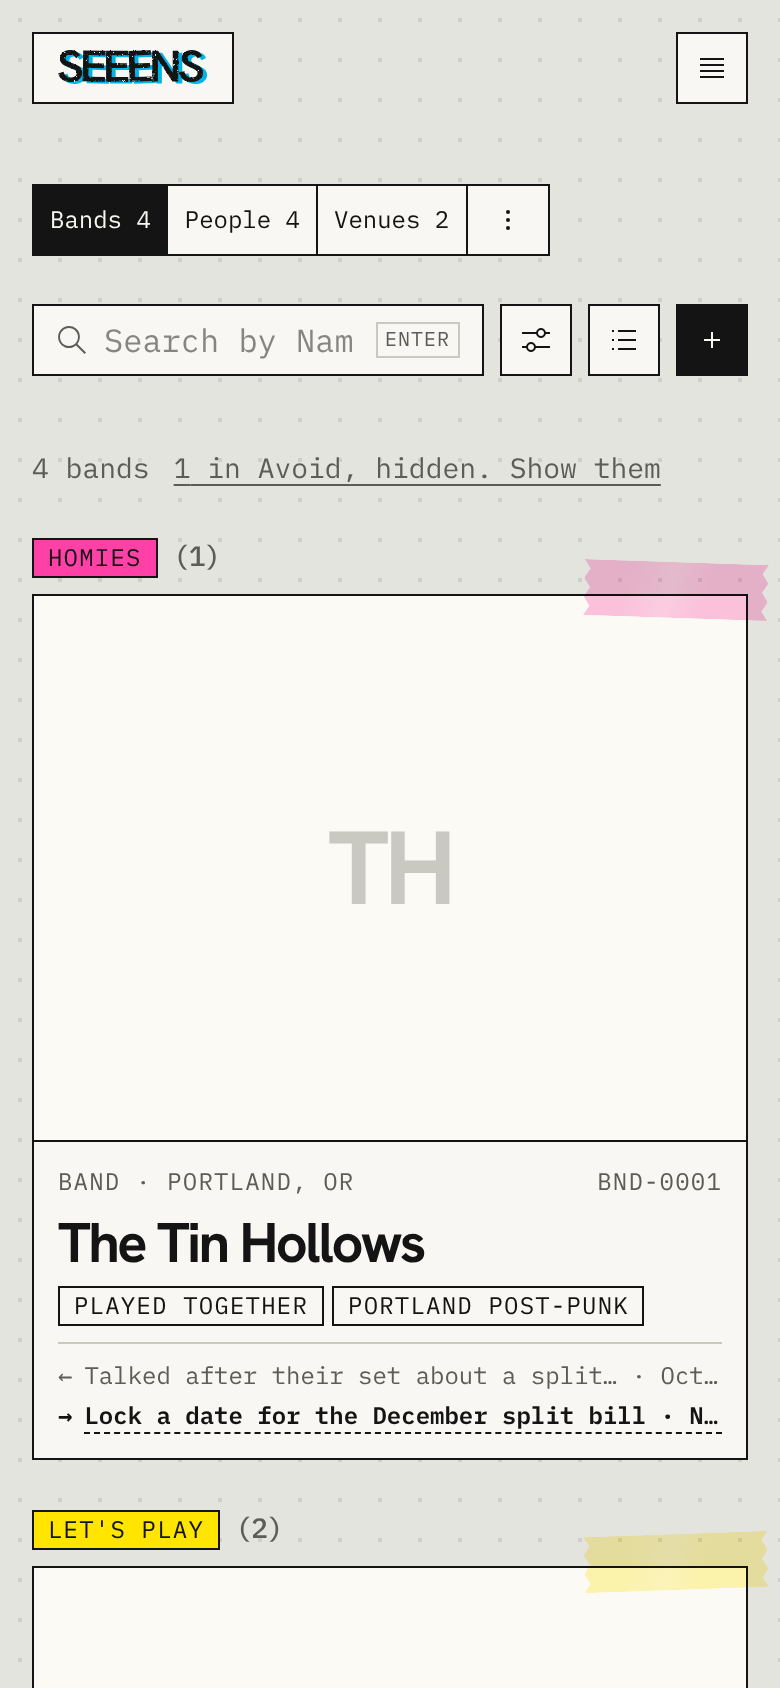
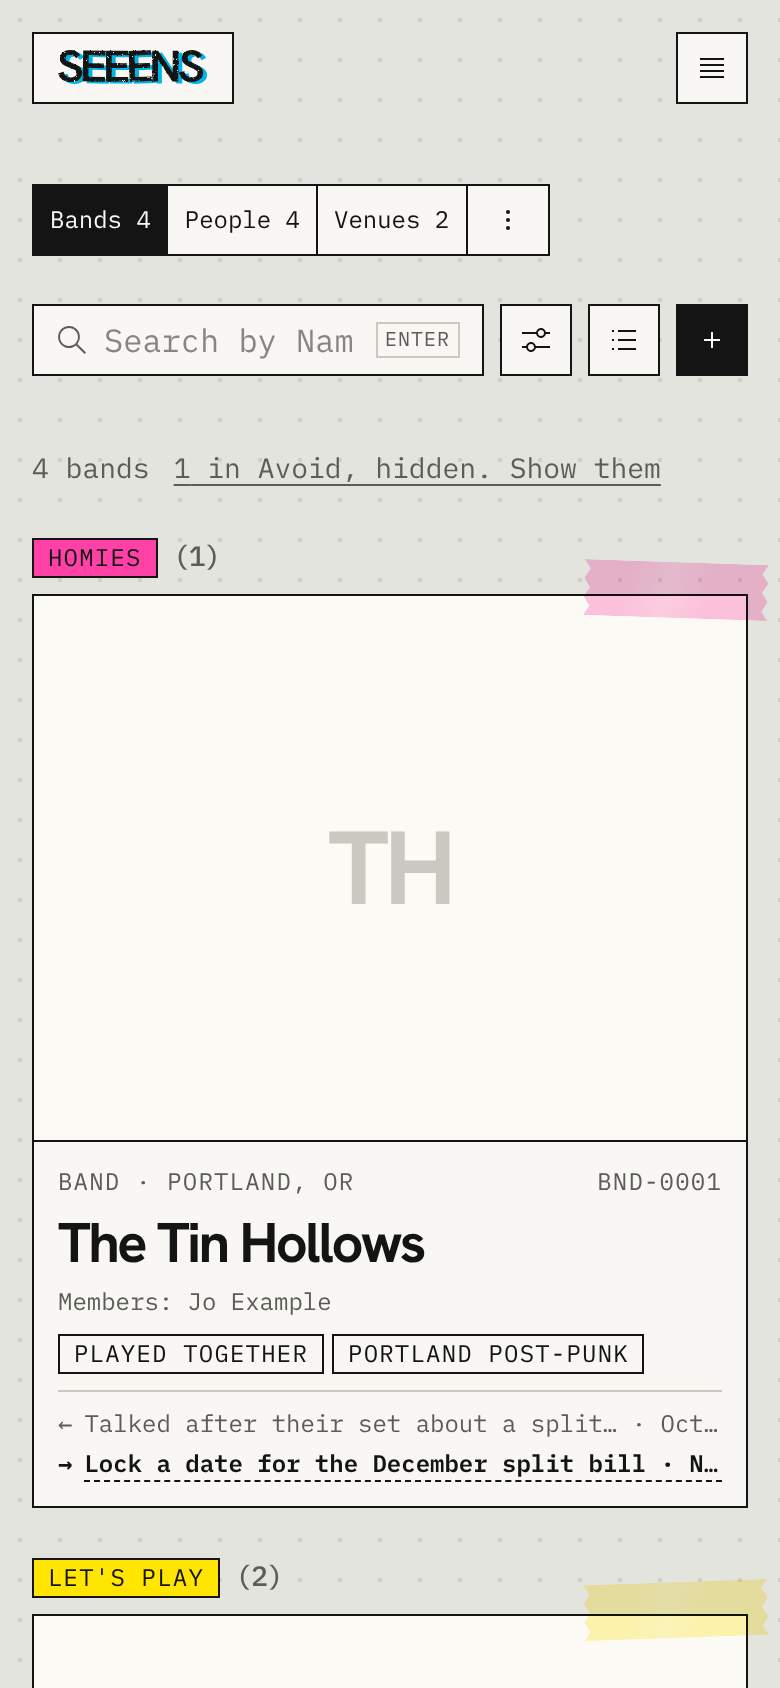
Directory by type: a detail line per tab, wider scene and town (#122) (#136)
Rows and cards add one line under the name: a band's current members, the
bands a person plays in now, or the first line of a label's notes. Scenes join
the row tags (cards had them already), except on All. From 1280 the scene and
town fields share the bar's spare width. Tab helpers move to tabs.ts so the
results, a client component, can use them.

Claude-Session: https://claude.ai/code/session_01SMP6NnyPkRALtU7G1T7uNS

Changed region(s): [[0.0308, 0.7701, 0.9846, 0.9858]]

diff --git a/src/lib/connections/directory.ts b/src/lib/connections/directory.ts
@@ -5,6 +5,9 @@ import { listSceneOptions, sceneAndChildren } from "@/lib/scenes/queries";
 import { signPhotos } from "@/lib/photos/urls";
 import { readFilters, type DirectoryFilters } from "./filters";
 import type { ConnectionKind, ConnectionStatus, GroupType, PersonRole } from "./labels";
+import { readTab, type Tab } from "./tabs";
+
+export { DEFAULT_TAB, TABS, detailFor, directoryHrefFor, readTab, tabFor, type Tab } from "./tabs";
 
 // The directory, one page at a time (#109). The directory_page RPC filters,
 // orders, counts, and works out the network tags in the database; this file
@@ -13,47 +16,6 @@ import type { ConnectionKind, ConnectionStatus, GroupType, PersonRole } from "./
 export const PAGE_SIZE = 48;
 
 type Params = Record<string, string | string[] | undefined>;
-
-// The directory by type (#122): one tab per kind of connection, Bands first.
-// "Labels & more" is every group that isn't a band or a venue.
-export type Tab = "bands" | "people" | "venues" | "more" | "all";
-export const TABS: { id: Tab; label: string; one: string; many: string; add: string; addType: string | null }[] = [
-  { id: "bands", label: "Bands", one: "band", many: "bands", add: "Add Band", addType: "band" },
-  { id: "people", label: "People", one: "person", many: "people", add: "Add Person", addType: "person" },
-  { id: "venues", label: "Venues", one: "venue", many: "venues", add: "Add Venue", addType: "venue" },
-  { id: "more", label: "Labels & more", one: "connection", many: "connections", add: "Add Label", addType: "label" },
-  { id: "all", label: "All", one: "connection", many: "connections", add: "Add Connection", addType: null },
-];
-export const DEFAULT_TAB: Tab = "bands";
-
-/** The tab a connection is listed under. */
-export function tabFor(kind: ConnectionKind, groupType: GroupType | null): Tab {
-  if (kind === "person") return "people";
-  if (groupType === "band") return "bands";
-  if (groupType === "venue") return "venues";
-  return "more";
-}
-
-/** Back to the directory, on a connection's own tab (and the archived half if it's archived). */
-export function directoryHrefFor(kind: ConnectionKind, groupType: GroupType | null, archived: boolean) {
-  const p = new URLSearchParams();
-  const tab = tabFor(kind, groupType);
-  if (tab !== DEFAULT_TAB) p.set("type", tab);
-  if (archived) p.set("archived", "1");
-  const qs = p.toString();
-  return qs ? `/?${qs}` : "/";
-}
-
-export function readTab(v: string | string[] | undefined): Tab {
-  const raw = (Array.isArray(v) ? v[0] : v) ?? "";
-  if (TABS.some((t) => t.id === raw)) return raw as Tab;
-  // The old Type filter (?type=group:band, person:dj) lands on its tab.
-  if (raw.startsWith("person:")) return "people";
-  if (raw === "group:band") return "bands";
-  if (raw === "group:venue") return "venues";
-  if (raw.startsWith("group:")) return "more";
-  return DEFAULT_TAB;
-}
 
 // Where the next page starts: the last row's sort key.
 export type Cursor = { rank: number; name: string; id: string };
@@ -92,7 +54,14 @@ export type DirectoryItem = {
   /** "Label mate", "Shares a member" */
   tags: string[];
   scenes: string[];
+  /** A band's current members, by name (#122). */
+  members: string[];
+  /** The bands a person plays in now, by name (#122). */
+  plays_in: string[];
+  /** The first line of the notes, for Labels & more (#122). */
+  note: string | null;
 };
+
 
 export type GroupCounts = Record<ConnectionStatus, number>;
 export type TabCounts = Record<Tab, number>;
@@ -161,7 +130,7 @@ export async function loadDirectoryPage(
     ? await supabase
         .from("connections")
         .select(
-          "id, name, kind, person_roles, group_type, status, played_together, is_us, catalog_no, photo_path, photo_alt, localities ( name, region, region_code, country, country_code ), connection_scenes ( scene_id ), outreach_entries ( occurred_on, summary ), next_actions ( description, due_on )",
+          "id, name, kind, person_roles, group_type, status, played_together, is_us, catalog_no, photo_path, photo_alt, notes, localities ( name, region, region_code, country, country_code ), connection_scenes ( scene_id ), outreach_entries ( occurred_on, summary ), next_actions ( description, due_on ), incoming:affiliations!affiliations_workspace_id_to_connection_id_fkey ( kind, is_current, other:connections!affiliations_workspace_id_from_connection_id_fkey ( name, archived_at ) ), outgoing:affiliations!affiliations_workspace_id_from_connection_id_fkey ( kind, is_current, other:connections!affiliations_workspace_id_to_connection_id_fkey ( name, archived_at ) )",
         )
         .eq("workspace_id", ws)
         .in("id", ids)
@@ -179,7 +148,13 @@ export async function loadDirectoryPage(
   const items: DirectoryItem[] = page.rows.flatMap((r) => {
     const d = byId.get(r.id);
     if (!d) return []; // deleted between the two reads
-    const { connection_scenes, photo_path, ...rest } = d;
+    const { connection_scenes, photo_path, notes, incoming, outgoing, ...rest } = d;
+    // Current, unarchived members only, in name order.
+    const names = (links: { kind: string; is_current: boolean; other: { name: string; archived_at: string | null } | null }[]) =>
+      links
+        .filter((a) => a.kind === "member" && a.is_current && a.other && !a.other.archived_at)
+        .map((a) => a.other!.name)
+        .sort((x, y) => x.localeCompare(y));
     return [
       {
         ...rest,
@@ -188,6 +163,9 @@ export async function loadDirectoryPage(
           (t): t is string => Boolean(t),
         ),
         scenes: connection_scenes.map((cs) => sceneNames.get(cs.scene_id)).filter((n): n is string => Boolean(n)),
+        members: names(incoming),
+        plays_in: names(outgoing),
+        note: notes?.split("\n").find((line) => line.trim())?.trim() ?? null,
       },
     ];
   });

diff --git a/src/components/directory-results.tsx b/src/components/directory-results.tsx
@@ -7,6 +7,7 @@ import { DateLines } from "@/components/date-line";
 import { useLayout } from "@/components/layout-toggle";
 import { loadMoreConnections } from "@/lib/connections/directory-actions";
 import type { Cursor, DirectoryItem, GroupCounts } from "@/lib/connections/directory";
+import { detailFor, type Tab } from "@/lib/connections/tabs";
 import { STATUSES, STATUS_LABELS, formatLocality, formatType } from "@/lib/connections/labels";
 import { catalogNo, initials } from "@/lib/connections/card";
 
@@ -24,6 +25,7 @@ export function DirectoryResults({
   matched,
   query,
   today,
+  tab,
 }: {
   initialItems: DirectoryItem[];
   initialNext: Cursor | null;
@@ -32,6 +34,8 @@ export function DirectoryResults({
   /** The directory URL's query string, without layout or after. */
   query: string;
   today: string;
+  /** Which tab: decides the detail line and whether scenes show. */
+  tab: Tab;
 }) {
   const { layout } = useLayout();
   const [items, setItems] = useState(initialItems);
@@ -99,9 +103,9 @@ export function DirectoryResults({
             <span className={`tag ${s.tag}`}>{s.label}</span> <span className="text-muted">({s.count})</span>
           </h2>
           {layout === "list" ? (
-            <ConnectionRows connections={s.rows} today={today} />
+            <ConnectionRows connections={s.rows} today={today} tab={tab} />
           ) : (
-            <ConnectionCards connections={s.rows} today={today} />
+            <ConnectionCards connections={s.rows} today={today} tab={tab} />
           )}
         </section>
       ))}
@@ -124,11 +128,21 @@ export function DirectoryResults({
   );
 }
 
-function ConnectionRows({ connections, today }: { connections: DirectoryItem[]; today: string }) {
+// Tags: played together, the network tags, then scenes (not on All, which
+// keeps to type, town, and latest).
+function tagsFor(c: DirectoryItem, tab: Tab) {
+  return [...new Set([c.played_together ? "Played together" : null, ...c.tags, ...(tab === "all" ? [] : c.scenes)])].filter(
+    (t): t is string => Boolean(t),
+  );
+}
+
+function ConnectionRows({ connections, today, tab }: { connections: DirectoryItem[]; today: string; tab: Tab }) {
   return (
     <ul className="panel rows flex flex-col">
       {connections.map((c) => {
         const place = formatLocality(c.localities);
+        const tags = tagsFor(c, tab);
+        const detail = detailFor(c, tab);
         return (
           <li key={c.id}>
             <Link
@@ -155,16 +169,16 @@ function ConnectionRows({ connections, today }: { connections: DirectoryItem[]; 
                     {formatType(c)} · <span className="whitespace-nowrap">{catalogNo(c)}</span>
                   </span>
                 </span>
+                {detail ? <span className="detail-line">{detail}</span> : null}
                 <DateLines lastOutreach={c.outreach_entries[0]} nextAction={c.next_actions[0]} today={today} />
               </span>
               </span>
               {/* Phones: town on the left, tags on the right (Figma Directory Row, Mobile). */}
               <span className="flex flex-wrap items-center justify-between gap-2 sm:justify-end">
                 {place ? <span className="text-sm text-muted">{place}</span> : null}
-                {c.played_together || c.tags.length ? (
-                  <span className="flex flex-wrap gap-2 max-sm:ml-auto">
-                    {c.played_together ? <span className="tag">Played together</span> : null}
-                    {c.tags.map((t) => (
+                {tags.length ? (
+                  <span className="flex flex-wrap gap-1 max-sm:ml-auto sm:justify-end">
+                    {tags.map((t) => (
                       <span key={t} className="tag">
                         {t}
                       </span>
@@ -180,18 +194,17 @@ function ConnectionRows({ connections, today }: { connections: DirectoryItem[]; 
   );
 }
 
-function ConnectionCards({ connections, today }: { connections: DirectoryItem[]; today: string }) {
+function ConnectionCards({ connections, today, tab }: { connections: DirectoryItem[]; today: string; tab: Tab }) {
   return (
     <ul className="card-grid">
       {connections.map((c) => {
-        const tags = [
-          ...new Set([c.played_together ? "Played together" : null, ...c.tags, ...c.scenes]),
-        ].filter((t): t is string => Boolean(t));
+        const tags = tagsFor(c, tab);
         return (
           <li key={c.id} className="flex">
             <ConnectionCard
               connection={c}
               today={today}
+              detail={detailFor(c, tab)}
               tags={tags.map((t) => (
                 <span key={t} className="tag">
                   {t}

diff --git a/src/lib/connections/tabs.ts b/src/lib/connections/tabs.ts
@@ -1,0 +1,53 @@
+import type { ConnectionKind, GroupType } from "./labels";
+
+// Tabs and per-tab details for the directory (#122). No server imports, so
+// the results (a client component) can use them too.
+
+// The directory by type (#122): one tab per kind of connection, Bands first.
+// "Labels & more" is every group that isn't a band or a venue.
+export type Tab = "bands" | "people" | "venues" | "more" | "all";
+export const TABS: { id: Tab; label: string; one: string; many: string; add: string; addType: string | null }[] = [
+  { id: "bands", label: "Bands", one: "band", many: "bands", add: "Add Band", addType: "band" },
+  { id: "people", label: "People", one: "person", many: "people", add: "Add Person", addType: "person" },
+  { id: "venues", label: "Venues", one: "venue", many: "venues", add: "Add Venue", addType: "venue" },
+  { id: "more", label: "Labels & more", one: "connection", many: "connections", add: "Add Label", addType: "label" },
+  { id: "all", label: "All", one: "connection", many: "connections", add: "Add Connection", addType: null },
+];
+export const DEFAULT_TAB: Tab = "bands";
+
+/** The tab a connection is listed under. */
+export function tabFor(kind: ConnectionKind, groupType: GroupType | null): Tab {
+  if (kind === "person") return "people";
+  if (groupType === "band") return "bands";
+  if (groupType === "venue") return "venues";
+  return "more";
+}
+
+/** Back to the directory, on a connection's own tab (and the archived half if it's archived). */
+export function directoryHrefFor(kind: ConnectionKind, groupType: GroupType | null, archived: boolean) {
+  const p = new URLSearchParams();
+  const tab = tabFor(kind, groupType);
+  if (tab !== DEFAULT_TAB) p.set("type", tab);
+  if (archived) p.set("archived", "1");
+  const qs = p.toString();
+  return qs ? `/?${qs}` : "/";
+}
+
+export function readTab(v: string | string[] | undefined): Tab {
+  const raw = (Array.isArray(v) ? v[0] : v) ?? "";
+  if (TABS.some((t) => t.id === raw)) return raw as Tab;
+  // The old Type filter (?type=group:band, person:dj) lands on its tab.
+  if (raw.startsWith("person:")) return "people";
+  if (raw === "group:band") return "bands";
+  if (raw === "group:venue") return "venues";
+  if (raw.startsWith("group:")) return "more";
+  return DEFAULT_TAB;
+}
+
+/** The extra line a row or card shows on each tab (#122): who's in a band, which bands a person plays in, a label's note. Venue capacity and ages wait for #48. */
+export function detailFor(item: { members: string[]; plays_in: string[]; note: string | null }, tab: Tab): string | null {
+  if (tab === "bands") return item.members.length ? `Members: ${item.members.join(", ")}` : null;
+  if (tab === "people") return item.plays_in.length ? `Plays in ${item.plays_in.join(", ")}` : null;
+  if (tab === "more") return item.note;
+  return null;
+}

diff --git a/src/app/globals.css b/src/app/globals.css
@@ -666,7 +666,7 @@
     .directory-bar .bar-panel,
     .directory-bar .bar-panel-closed {
       display: block;
-      grid-area: 2 / 2;
+      grid-area: 2 / 2 / 3 / 4;
     }
     .directory-bar .bar-after {
       grid-area: 2 / 4;
@@ -682,8 +682,20 @@
   .bar-panel-closed {
     display: none;
   }
+  /* A row or card's detail line (#122): members, bands, a note. Mono/Small,
+     secondary, two lines at most. */
+  .detail-line {
+    font-family: var(--type-mono);
+    font-size: 12px;
+    line-height: 16px;
+    color: var(--color-text-secondary);
+    display: -webkit-box;
+    -webkit-box-orient: vertical;
+    -webkit-line-clamp: 2;
+    overflow: hidden;
+  }
   /* The filter fields: one to a row on phones (Figma), four from tablet, and in the
-     search row from 1280 (status 220px, scene and town 160px). */
+     search row from 1280 (status 220px; scene and town split the rest). */
   .filter-fields {
     display: grid;
     gap: 12px;
@@ -699,8 +711,10 @@
       & > .filter-status {
         width: 13.75rem;
       }
+      /* Scene and town share what's left of the row, 160px at least. */
       & > :not(.filter-status, .choice, .sr-only) {
-        width: 10rem;
+        flex: 1 1 10rem;
+        min-width: 10rem;
       }
     }
   }

diff --git a/src/components/connection-card.tsx b/src/components/connection-card.tsx
@@ -51,10 +51,13 @@ export function ConnectionCard({
   connection: c,
   tags,
   today,
+  detail,
 }: {
   connection: CardConnection;
   tags: ReactNode[];
   today: string;
+  /** One more line under the name: members, the bands someone plays in, a note (#122). */
+  detail?: string | null;
 }) {
   const place = formatLocality(c.localities);
   const lastOutreach = c.outreach_entries[0];
@@ -86,6 +89,7 @@ export function ConnectionCard({
             <span className="shrink-0 whitespace-nowrap">{catalogNo(c)}</span>
           </span>
         </span>
+        {detail ? <span className="detail-line">{detail}</span> : null}
         {tags.length ? <span className="flex flex-wrap gap-1">{tags}</span> : null}
         {lastOutreach || nextAction ? (
           <span className="card-dates">

diff --git a/src/app/(app)/page.tsx b/src/app/(app)/page.tsx
@@ -171,6 +171,7 @@ async function Directory({
               matched={c.matched}
               query={query}
               today={today}
+              tab={tab}
             />
           </>
         )}

diff --git a/docs/design-system/rules.md b/docs/design-system/rules.md
@@ -40,7 +40,8 @@ Seeens is not a sales tool. Bands work on their own time, and urgency comes and 
 - Keep primary actions clear: add a connection, favorite it, or record outreach.
 - **Page width:** the app has no max width. Gutters are 16px, 24px from `md`, and 32px from `xl` (`.page-gutter`). The directory and Boards use the full width. Reading and form pages (connection detail, edit forms, scenes, follow-ups, export) and long text such as the search row and view intros hold a 56rem measure (`.page-measure`), left-aligned with the logo.
 - Card grids fill the row with as many 280px-minimum columns as fit (`.card-grid`).
-- **Directory bar:** every directory control sits in one bar pinned to the top of the window (`.directory-bar`). On top: the type tabs (Bands, People, Venues, Labels & more, All, each with its count under the other filters; Bands is the default) and Add, named for the tab (Add Band, Add Person, and so on; All says Add Connection). Under them: the search field (up to 320px, icon inside on the left, an ENTER keycap hint inside on the right), then the filter fields, then Cards/List (icon-only segments, Cards first and the default) on the right. From 1280px the filter fields (status, scene, town, Archived) sit in that row; below 1280, Filters opens them under it. Status is a select: Everyone but Avoid, or one status. Filters is paper until the fields are open or a filter is set, then ink, so ink means something is in play. At rest the bar sits on the dot grid; once it pins it gets solid ground and a hairline underneath (`data-pinned`, set by `PinWatch`). Phones show Bands, People, and a third tab (Venues, or the current tab when it's Labels & more or All), with the rest behind ⋮ (named "More types"); the filter fields stack one to a row; the search row holds Filters (icon and count), the Cards/List button showing the other layout, and Add as an icon. Phones pin only the search row and any open filters. Field labels are visually hidden and the placeholder names the field.
+- **Directory bar:** every directory control sits in one bar pinned to the top of the window (`.directory-bar`). On top: the type tabs (Bands, People, Venues, Labels & more, All, each with its count under the other filters; Bands is the default) and Add, named for the tab (Add Band, Add Person, and so on; All says Add Connection). Under them: the search field (up to 320px, icon inside on the left, an ENTER keycap hint inside on the right), then the filter fields, then Cards/List (icon-only segments, Cards first and the default) on the right. From 1280px the filter fields (status, scene, town, Archived) sit in that row, with scene and town sharing the spare width; below 1280, Filters opens them under it. Status is a select: Everyone but Avoid, or one status. Filters is paper until the fields are open or a filter is set, then ink, so ink means something is in play. At rest the bar sits on the dot grid; once it pins it gets solid ground and a hairline underneath (`data-pinned`, set by `PinWatch`). Phones show Bands, People, and a third tab (Venues, or the current tab when it's Labels & more or All), with the rest behind ⋮ (named "More types"); the filter fields stack one to a row; the search row holds Filters (icon and count), the Cards/List button showing the other layout, and Add as an icon. Phones pin only the search row and any open filters. Field labels are visually hidden and the placeholder names the field.
+- **Directory rows and cards by tab:** each tab adds one detail line under the name (`.detail-line`, Mono/Small, secondary, two lines at most): a band's current members, the bands a person plays in now, or the first line of a label's notes. Venues get capacity and ages with #48. Tags are played together, the network tags (label mate, shares a member), then scenes; All leaves scenes out and keeps to type, town, and latest.
 - **Paging:** long lists load 48 at a time (rows of 2, 3, 4, or 6 cards fill evenly). A paper **Show More** sits under the results with "48 of 122 loaded" beside it (the count above the list says how many match, never how many are loaded); it appends in place, moves focus to the first new item, and announces how many loaded. Group headings count the whole group, not just what has loaded.
 - **Catalog numbers:** every connection shows its catalog number (`BND-0042`) in caption type wherever it appears: list rows (caption line, after the type), cards (top-right of the meta box), the connection page (after type and town), link rows, label mates, Follow-ups rows (caption line, after the type), connection pickers (in the hint, and typing it finds the connection), and lineup matches ("Link to Jo Example (MUS-0002)"). It is read aloud like any text. The prefix comes from the current type or first role (`catalogNo()` in `lib/connections/card.ts`); only the number is stored.
 - **Icon-only buttons** are locked to 36 x 36, border included (`.button-icon`, or `.button-icon-phone` for buttons that drop their label below 640px). They never stretch or shrink in a row. A button showing a count next to its icon is no longer icon-only and sizes to its content.
